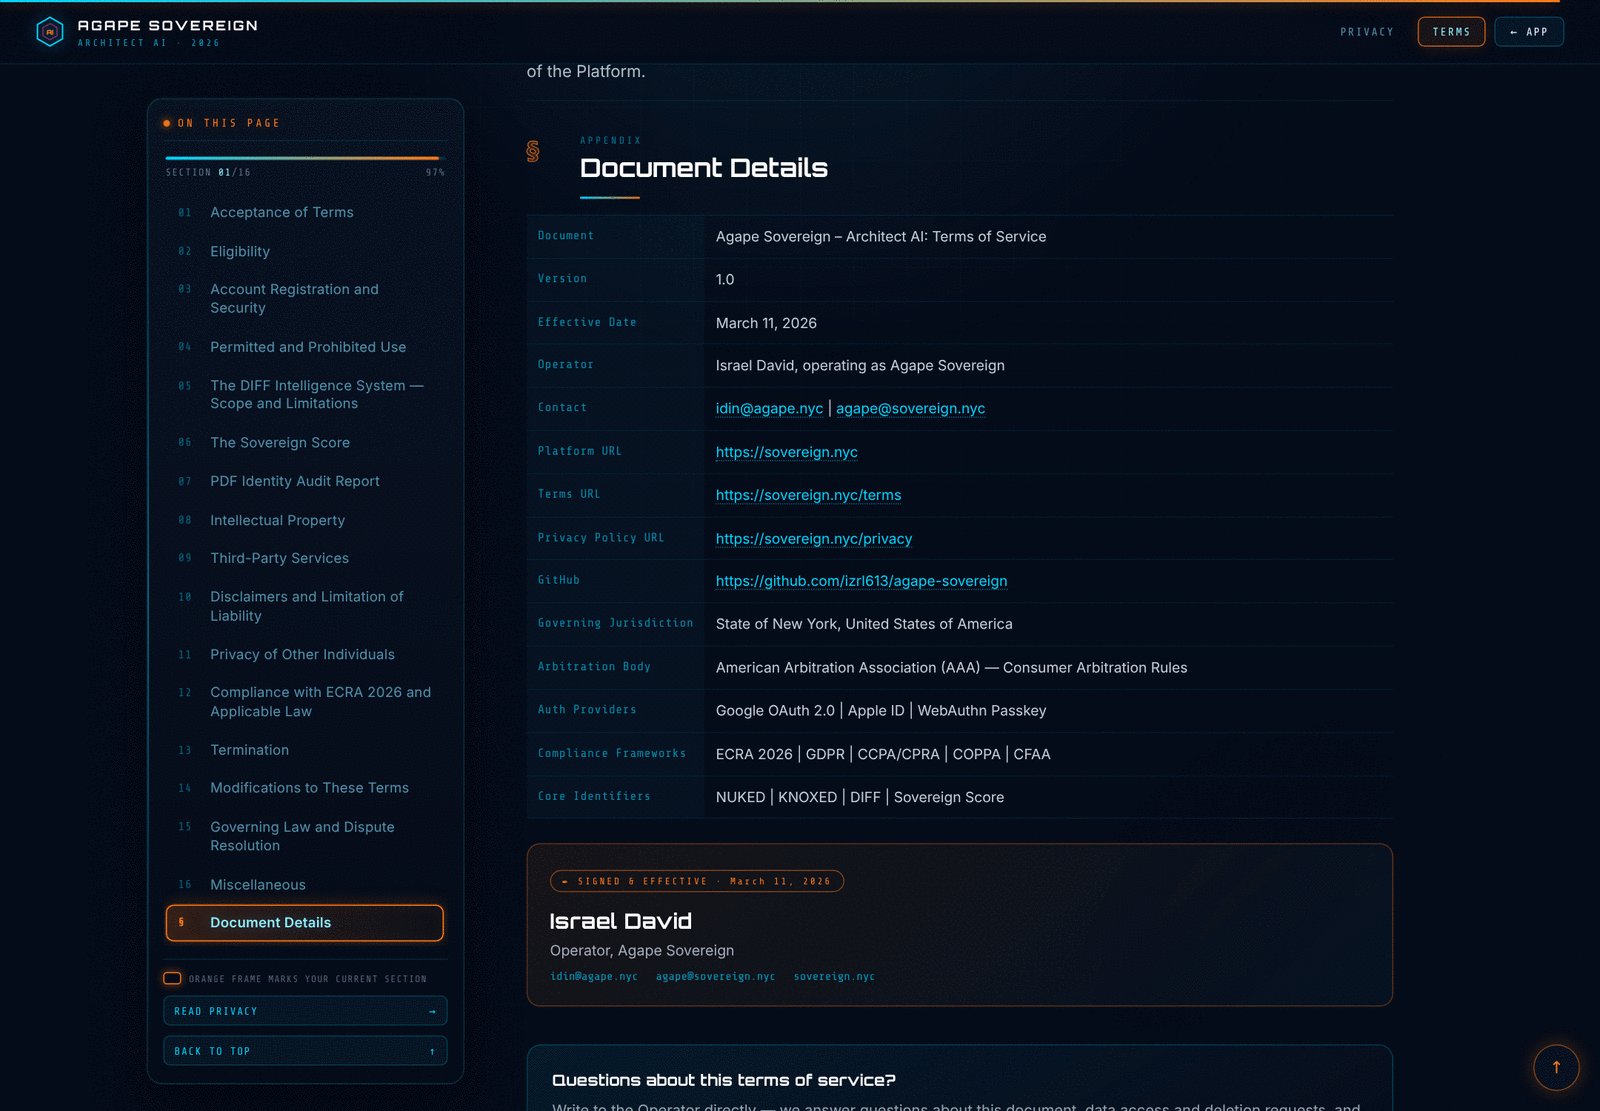
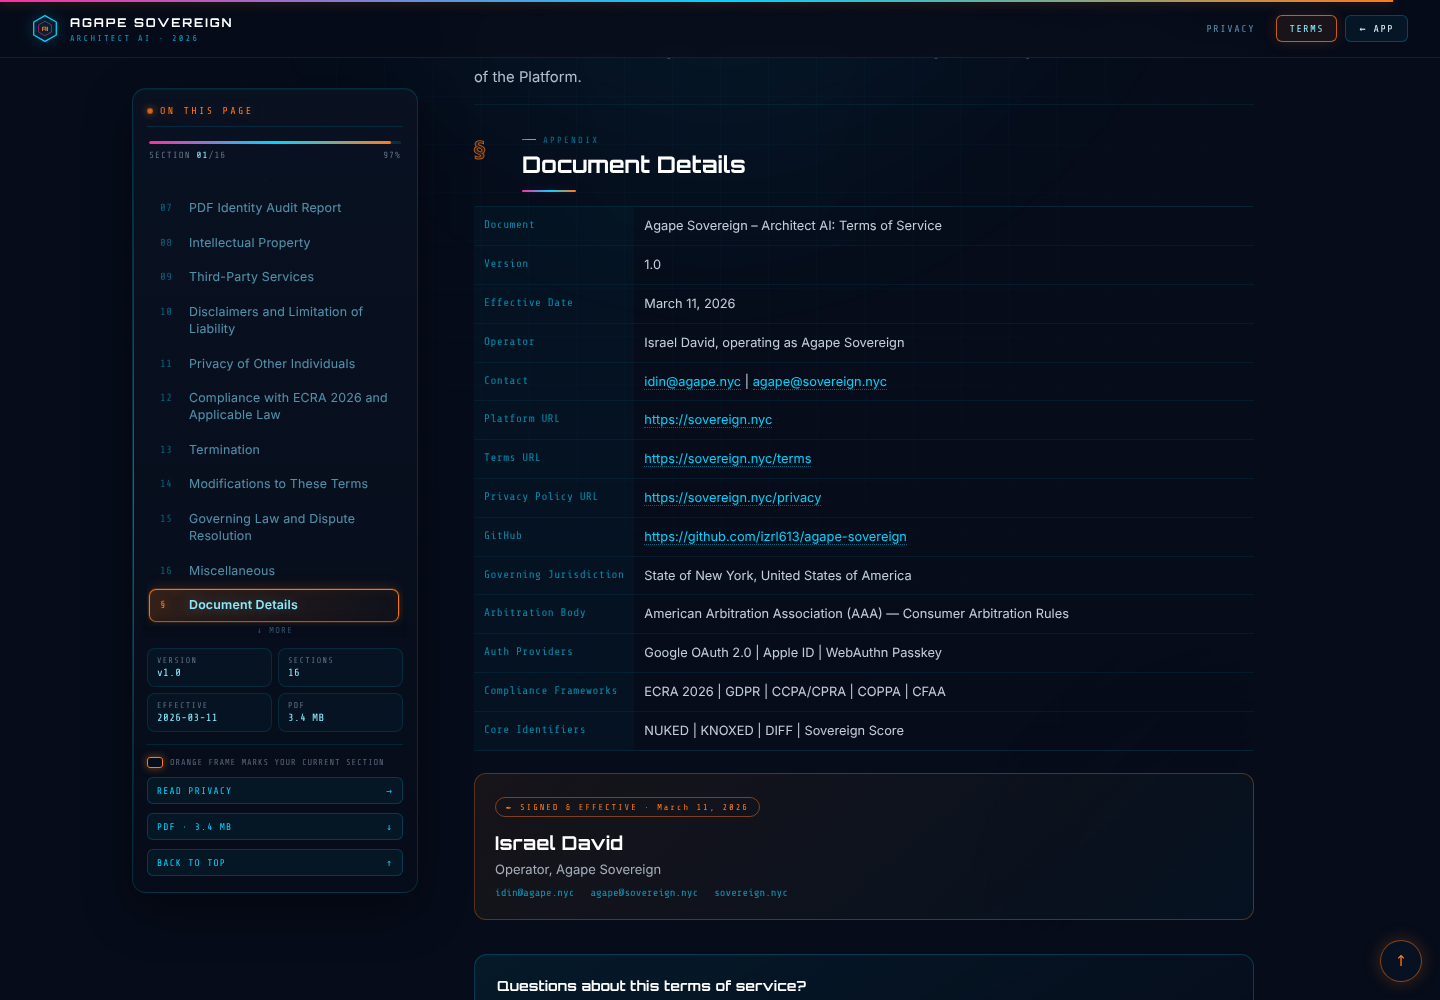
fix(legal): one page schema for /privacy and /terms
The two documents shared a component but not a shape: the left index was
content-sized, so /privacy's panel (12 entries) ended mid-screen while
/terms' (17) ran to the viewport edge, and only the Terms closed with a
signature block.

- cap the index at one fixed 448px viewport (.legal-toc) so the sidebar is
  the same box on both documents at every viewport height; long indexes
  scroll inside it and short ones fit exactly
- fade the row cut by the cap (top/bottom masks follow the scroll position)
  and add a '↓ N MORE' counter that overlays the last rows without changing
  the panel height
- add the shared document specimen strip (VERSION / SECTIONS / EFFECTIVE /
  PDF) so the sidebar keeps the same anatomy and never ends in dead space
- give the Privacy Policy the same SIGNED & EFFECTIVE block the Terms carry,
  so both close appendix → signature → contact card
- document the shared page anatomy in docs/LEGAL_PAGES.md, refresh the
  screenshot gallery (new privacy end-matter shot) and the changelog

Verified: aside/meta/foot boxes are pixel-identical on /privacy and /terms at
1440x1000, 1440x800, 1440x1400 and 1280x900; mobile bars identical (649px);
print output identical; no console errors. Only remaining difference is the
four boxed all-caps clauses that exist in the Terms PDF.

diff --git a/frontend/components/legal/LegalDocumentPage.tsx b/frontend/components/legal/LegalDocumentPage.tsx
@@ -24,6 +24,13 @@ type TocEntry = {
 
 const pad = (num: string) => (num.length === 1 ? `0${num}` : num);
 
+/** "March 11, 2026" → "2026-03-11"; falls back to the raw string. */
+const isoDate = (value: string) => {
+  const parsed = new Date(value);
+  if (Number.isNaN(parsed.getTime())) return value;
+  return parsed.toISOString().slice(0, 10);
+};
+
 const HexMark: React.FC = () => (
   <svg viewBox="0 0 32 36" width="26" height="29" aria-hidden="true">
     <polygon points="16,2 30,10 30,26 16,34 2,26 2,10" fill="none" stroke="#00D4FF" strokeWidth="1.6" />
@@ -106,8 +113,10 @@ export const LegalDocumentPage: React.FC<LegalDocumentPageProps> = ({ doc, other
   const [progress, setProgress] = useState(0);
   const [showTopBtn, setShowTopBtn] = useState(false);
   const [tocOpen, setTocOpen] = useState(false);
+  const [tocFade, setTocFade] = useState({ top: false, bottom: false, hidden: 0 });
 
-  const tocRef = useRef<HTMLDivElement | null>(null);
+  const tocRef = useRef<HTMLElement | null>(null);
+  const tocScrollRef = useRef<HTMLElement | null>(null);
   const itemRefs = useRef<Record<string, HTMLAnchorElement | null>>({});
 
   useLegalMeta(doc);
@@ -169,6 +178,51 @@ export const LegalDocumentPage: React.FC<LegalDocumentPageProps> = ({ doc, other
       if (frame) window.cancelAnimationFrame(frame);
     };
   }, [anchors]);
+
+  /* Flag an index that overflows its capped height, so the CSS can fade the
+     rows cut by the cap instead of clipping them mid-label. The fade is only
+     drawn on the side that actually has more entries. */
+  useEffect(() => {
+    const el = tocScrollRef.current;
+    if (!el) return;
+    let frame = 0;
+
+    const measure = () => {
+      frame = 0;
+      const overflowing = el.scrollHeight > el.clientHeight + 2;
+      const top = overflowing && el.scrollTop > 4;
+      const bottom = overflowing && el.scrollTop + el.clientHeight < el.scrollHeight - 4;
+
+      // How many entries are still below the fold — the "↓ 6 MORE" affordance.
+      const listBottom = el.getBoundingClientRect().bottom;
+      let hidden = 0;
+      if (bottom) {
+        el.querySelectorAll('.legal-toc-item').forEach((item) => {
+          if (item.getBoundingClientRect().top > listBottom - 10) hidden += 1;
+        });
+      }
+
+      setTocFade((prev) =>
+        prev.top === top && prev.bottom === bottom && prev.hidden === hidden ? prev : { top, bottom, hidden },
+      );
+    };
+
+    const onScroll = () => {
+      if (!frame) frame = window.requestAnimationFrame(measure);
+    };
+
+    measure();
+    const observer = new ResizeObserver(measure);
+    observer.observe(el);
+    el.addEventListener('scroll', onScroll, { passive: true });
+    window.addEventListener('resize', measure);
+    return () => {
+      observer.disconnect();
+      el.removeEventListener('scroll', onScroll);
+      window.removeEventListener('resize', measure);
+      if (frame) window.cancelAnimationFrame(frame);
+    };
+  }, []);
 
   /* Keep the orange box in view inside the sidebar without moving the page. */
   useEffect(() => {
@@ -298,7 +352,15 @@ export const LegalDocumentPage: React.FC<LegalDocumentPageProps> = ({ doc, other
             </div>
           </div>
 
-          <nav className="legal-toc" id="legal-toc" ref={tocRef} aria-label={`${doc.title} sections`}>
+          <nav
+            className={`legal-toc${tocFade.top ? ' is-fade-top' : ''}${tocFade.bottom ? ' is-fade-bottom' : ''}`}
+            id="legal-toc"
+            ref={(node) => {
+              tocRef.current = node;
+              tocScrollRef.current = node;
+            }}
+            aria-label={`${doc.title} sections`}
+          >
             {doc.sections.map((section) => {
               const isActiveSection = activeSectionId === section.id;
               const showSubs = Boolean(section.subsections?.length) && isActiveSection;
@@ -363,6 +425,31 @@ export const LegalDocumentPage: React.FC<LegalDocumentPageProps> = ({ doc, other
               <span className="legal-toc-label">Document Details</span>
             </a>
           </nav>
+
+          <div className={`legal-toc-more${tocFade.bottom ? ' is-visible' : ''}`} aria-hidden="true">
+            ↓ {tocFade.hidden || ''} MORE
+          </div>
+
+          {/* Same specimen strip on both documents, so the sidebar keeps an
+              identical anatomy whether the index has 12 entries or 17. */}
+          <div className="legal-toc-meta" aria-label="Document facts">
+            <div className="legal-toc-meta-cell">
+              <span>VERSION</span>
+              <b>v{doc.version}</b>
+            </div>
+            <div className="legal-toc-meta-cell">
+              <span>SECTIONS</span>
+              <b>{pad(String(doc.sections.length))}</b>
+            </div>
+            <div className="legal-toc-meta-cell">
+              <span>EFFECTIVE</span>
+              <b>{isoDate(doc.effectiveDate)}</b>
+            </div>
+            <div className="legal-toc-meta-cell">
+              <span>PDF</span>
+              <b>{formatBytes(doc.pdf.bytes)}</b>
+            </div>
+          </div>
 
           <div className="legal-toc-foot">
             <div className="legal-legend">

diff --git a/frontend/components/legal/legalStyles.ts b/frontend/components/legal/legalStyles.ts
@@ -190,6 +190,9 @@ export const LEGAL_CSS = `
     display: flex;
     flex-direction: column;
     gap: 12px;
+    /* The panel hugs its content but the index is capped, so /privacy (12
+       entries) and /terms (17) produce the same card instead of one short panel
+       and one stretched to the viewport. A longer index scrolls in place. */
     max-height: calc(100vh - 112px);
     padding: 16px 14px;
     border: 1px solid rgba(0, 212, 255, 0.16);
@@ -307,8 +310,12 @@ export const LEGAL_CSS = `
 
   .legal-toc {
     display: flex;
-    flex: 1 1 auto;
+    flex: 0 1 auto;
     min-height: 0;
+    /* One index viewport for both documents: /privacy's 12 rows fit exactly,
+       /terms' 17 rows scroll. Short windows shrink it via flex-shrink. */
+    height: 448px;
+    max-height: 448px;
     flex-direction: column;
     gap: 2px;
     overflow-y: auto;
@@ -317,6 +324,45 @@ export const LEGAL_CSS = `
     scrollbar-width: thin;
     scrollbar-color: rgba(0, 212, 255, 0.4) transparent;
   }
+  /* Fade the row cut by the cap, and the rows above the fold once scrolled. */
+  .legal-toc.is-fade-bottom {
+    mask-image: linear-gradient(180deg, #000 0, #000 calc(100% - 24px), transparent 100%);
+    -webkit-mask-image: linear-gradient(180deg, #000 0, #000 calc(100% - 24px), transparent 100%);
+  }
+  .legal-toc.is-fade-top.is-fade-bottom {
+    mask-image: linear-gradient(180deg, transparent 0, #000 22px, #000 calc(100% - 24px), transparent 100%);
+    -webkit-mask-image: linear-gradient(180deg, transparent 0, #000 22px, #000 calc(100% - 24px), transparent 100%);
+  }
+  .legal-toc.is-fade-top {
+    mask-image: linear-gradient(180deg, transparent 0, #000 22px);
+    -webkit-mask-image: linear-gradient(180deg, transparent 0, #000 22px);
+  }
+
+  /* Sticky counter for a capped index: the cut row is covered, the count says
+     how much is left, and it rides the bottom edge until the list ends. */
+  .legal-toc-more {
+    position: relative;
+    z-index: 2;
+    /* Overlaps the bottom of the index by exactly its own height, so it never
+       changes the panel height when it appears. */
+    height: 24px;
+    /* -24px pulls it over the index; -12px cancels the flex gap it would
+       otherwise add, so the panel height is unchanged on both documents. */
+    margin: -24px -4px -12px;
+    display: flex;
+    align-items: flex-end;
+    justify-content: center;
+    padding-bottom: 3px;
+    background: linear-gradient(180deg, rgba(6, 12, 26, 0) 0, rgba(6, 12, 26, 0.96) 55%, rgba(6, 12, 26, 1) 100%);
+    font-family: 'Share Tech Mono', monospace;
+    font-size: 8.6px;
+    letter-spacing: 0.16em;
+    color: var(--legal-blue-soft);
+    pointer-events: none;
+    opacity: 0;
+    transition: opacity 0.18s ease;
+  }
+  .legal-toc-more.is-visible { opacity: 1; }
   .legal-toc::-webkit-scrollbar { width: 3px; }
   .legal-toc::-webkit-scrollbar-thumb {
     background: rgba(0, 212, 255, 0.4);
@@ -397,6 +443,39 @@ export const LEGAL_CSS = `
   .legal-toc-sub .legal-toc-num {
     font-size: 9.6px;
     min-width: 24px;
+  }
+
+  /* Document facts — the same 2×2 specimen on /privacy and /terms. */
+  .legal-toc-meta {
+    display: grid;
+    grid-template-columns: 1fr 1fr;
+    gap: 6px;
+    margin-top: 10px;
+  }
+  .legal-toc-meta-cell {
+    display: flex;
+    flex-direction: column;
+    gap: 2px;
+    padding: 7px 9px;
+    border: 1px solid var(--legal-line);
+    border-radius: 8px;
+    background: rgba(0, 212, 255, 0.03);
+  }
+  .legal-toc-meta-cell span {
+    font-family: 'Share Tech Mono', monospace;
+    font-size: 8.2px;
+    letter-spacing: 0.16em;
+    color: rgba(180, 205, 230, 0.5);
+  }
+  .legal-toc-meta-cell b {
+    font-family: 'Share Tech Mono', monospace;
+    font-size: 10.5px;
+    font-weight: 400;
+    letter-spacing: 0.04em;
+    color: var(--legal-blue-bright);
+    white-space: nowrap;
+    overflow: hidden;
+    text-overflow: ellipsis;
   }
 
   .legal-toc-foot {
@@ -1028,6 +1107,8 @@ export const LEGAL_CSS = `
       position: sticky;
       top: 52px;
       z-index: 30;
+      height: auto;
+      min-height: 0;
       max-height: none;
       padding: 10px 12px 12px;
       box-shadow: inset 0 1px 0 rgba(255, 255, 255, 0.04), 0 12px 32px rgba(0, 0, 0, 0.5);
@@ -1039,9 +1120,12 @@ export const LEGAL_CSS = `
     .legal-meter { display: none; }
     .legal-aside[data-open='true'] .legal-meter { display: flex; }
     .legal-aside[data-open='true'] .legal-toc-current { display: none; }
-    .legal-toc { display: none; max-height: 44vh; }
+    .legal-toc { display: none; height: auto; max-height: 44vh; }
+    .legal-aside[data-open='true'] .legal-toc { height: auto; max-height: 44vh; }
     .legal-aside[data-open='true'] .legal-toc { display: flex; }
-    .legal-aside[data-open='false'] .legal-toc-foot { display: none; }
+    .legal-aside[data-open='false'] .legal-toc-foot,
+    .legal-aside[data-open='false'] .legal-toc-meta { display: none; }
+    .legal-toc-meta { grid-template-columns: 1fr 1fr 1fr 1fr; }
     .legal-aside[data-open='true'] .legal-toc-foot {
       flex-direction: row;
       flex-wrap: wrap;

diff --git a/docs/legal-pages-preview/index.html b/docs/legal-pages-preview/index.html
@@ -184,14 +184,19 @@
 
   <!-- 6 -->
   <section>
-    <div class="sec-head"><span class="sec-num">06</span><h2>Terms — end matter</h2></div>
+    <div class="sec-head"><span class="sec-num">06</span><h2>End matter — the shared closing schema</h2></div>
     <p class="cap">
-      The appendix anchor (<b>§</b> Document Details), the fact table, the signed-by block, and the contact card —
-      with the orange box parked on the appendix at <b>97%</b> read.
+      Both documents close on the identical sequence: appendix anchor (<b>§</b> Document Details) → fact table →
+      <b>SIGNED &amp; EFFECTIVE</b> signature block → contact card → footer. Same sidebar too: the index sits in a
+      fixed 448px viewport, so the fact strip and the three actions land at the same pixel on both pages.
     </p>
     <figure>
-      <img src="06-terms-end.png" alt="Terms document details and signature block" />
-      <figcaption><span>1440 × 1000 · /terms#sec-details · scrollY 10 757</span><span>active: § Document Details</span></figcaption>
+      <img src="06-terms-end.png" alt="Terms document details, signature block and contact card" />
+      <figcaption><span>1440 × 1000 · /terms#sec-details · scrollY 11 249</span><span>active: § Document Details · 16 sections</span></figcaption>
+    </figure>
+    <figure style="margin-top:20px">
+      <img src="06b-privacy-end.png" alt="Privacy document details, signature block and contact card" />
+      <figcaption><span>1440 × 1000 · /privacy#sec-details · scrollY 7 560</span><span>active: § Document Details · 11 sections</span></figcaption>
     </figure>
   </section>
 
@@ -224,7 +229,7 @@
     </p>
     <figure>
       <img src="09-tablet.png" alt="Tablet layout with compact table of contents bar" />
-      <figcaption><span>900 × 1100 · /terms#sec-4-2</span><span>active: 4.2 Prohibited Use</span></figcaption>
+      <figcaption><span>900 × 1100 · /terms#sec-4-2</span><span>active: 4.1 Permitted Use</span></figcaption>
     </figure>
   </section>
 

diff --git a/frontend/content/legal/privacyPolicy.ts b/frontend/content/legal/privacyPolicy.ts
@@ -495,4 +495,8 @@ export const privacyPolicy: LegalDocument = {
     { k: 'Google Policy Compliance', v: 'Google API Services User Data Policy — Limited Use' },
     { k: 'Compliance Frameworks', v: 'ECRA 2026 | GDPR | CCPA/CPRA | COPPA' },
   ],
+  // Same closing sequence as the Terms of Service: details → signature → contact.
+  signatureName: 'Israel David',
+  signatureRole: 'Operator, Agape Sovereign',
+  signatureContacts: ['agape@sovereign.nyc'],
 };

diff --git a/docs/LEGAL_PAGES.md b/docs/LEGAL_PAGES.md
@@ -53,6 +53,52 @@ frontend/
     └── TermsOfServicePage.tsx# /terms
 ```
 
+### Shared page anatomy (the schema both documents follow)
+
+`/privacy` and `/terms` are one component with two content files, and the anatomy below is
+identical on both — a reviewer should be able to put the pages side by side and see the same
+chrome, the same rhythm, and the same closing sequence. Only the copy and the number of
+sections differ.
+
+```
+header          brand lock-up · PRIVACY / TERMS switch · ← APP
+progress rail   2px tri-colour rail pinned to the top of the viewport
+sidebar         ON THIS PAGE eyebrow
+                SECTION 04 / 16 · 38 % meter
+                index (fixed 448px viewport — see below)
+                document specimen: VERSION · SECTIONS · EFFECTIVE · PDF
+                legend (orange frame = your position)
+                READ <other doc> · PDF · BACK TO TOP
+body            eyebrow → H1 → tagline → meta chips → hero actions → tri-colour rule
+                intro lead
+                §01..§NN  (number chip, SECTION NN eyebrow, H2, rule, then blocks)
+                subsections  (NN.N heading with a blue bar)
+                §  APPENDIX — Document Details fact table
+                SIGNED & EFFECTIVE signature block
+                contact card
+                footer  (both PDF chips · copyright + SHA-256 · PRIVACY / TERMS / CONTACT)
+```
+
+Rules that keep the pair aligned:
+
+- **The index viewport is fixed at 448px** (`.legal-toc`). `/privacy`'s 12 entries fit exactly;
+  `/terms`' 17 entries scroll inside the same box. Because the sidebar height is therefore not
+  content-driven, the specimen strip and the three footer actions land on the same pixel on both
+  pages, at every viewport height. On short windows the box shrinks via `flex-shrink` and scrolls.
+- **Overflow is faded, not clipped.** When the index overflows, the CSS masks the cut row on the
+  side that actually has more entries (`is-fade-top` / `is-fade-bottom`). A `↓ N MORE` counter
+  rides the bottom edge and reports how many entries are still below; it fades out at the last
+  entry. It is pulled over the index with a negative margin so appearing/disappearing can never
+  change the panel height.
+- **The document specimen strip** (version, section count, effective date, PDF weight) is the same
+  2×2 grid on both pages, so the sidebar never ends in dead space on the shorter document.
+- **The closing sequence is mandatory on both**: appendix table → signature block → contact card.
+  A document without a `signatureName` simply omits it — which is why the Privacy Policy carries
+  the same operator block as the Terms.
+- **Section anatomy never varies**: number chip + `SECTION NN` eyebrow + H2 + tri-colour underline,
+  followed by blocks; the `allcaps` block type renders as a boxed clause and is used only where the
+  signed PDF has such a clause (four times in the Terms, never in the Privacy Policy).
+
 ### Colour rules
 
 - **Neon blue** (`#00D4FF` family) is the only colour for navigation labels.

diff --git a/CHANGELOG.md b/CHANGELOG.md
@@ -23,6 +23,7 @@
 | 2026-10-26 | `fix` | `MODULE_CONFIGS` fallback in `ModuleInterface` (privacy-reclaim had no config and rendered "Module not found"), plus a `← Dashboard` control on module screens |
 | 2026-10-26 | `style` | Dashboard shell, module splash/entry, Architect AI and Diff Report aligned to the `#060C1A` brand palette; `theme.ts` gained the missing `magenta`/`orange`/`bg`/`bgCard`/`text`/`textMuted` tokens; emoji status glyphs replaced with font-safe symbols; preview captured in `docs/dashboard-preview/` |
 | 2026-10-26 | `feat` | Public Privacy Policy (`/privacy`) + Terms of Service (`/terms`) pages — unauthenticated, mirrored 1:1 from the signed PDFs, with a sticky neon-blue table of contents that wraps the reader's current clause in an orange position box |
+| 2026-10-26 | `fix` | `/privacy` and `/terms` now share one page schema: the left index sits in a fixed 448px viewport (was content-driven, so the two sidebars ended at different heights), cut rows fade with a directional mask plus a `↓ N MORE` counter, the sidebar gained the same VERSION / SECTIONS / EFFECTIVE / PDF specimen strip on both documents, and the Privacy Policy closes with the same SIGNED & EFFECTIVE block → contact card sequence as the Terms |
 | 2026-10-26 | `feat` | Shared legal document shell (`frontend/components/legal/*`) — scroll-spy nav with expandable subsections, reading-progress rail, mobile sticky TOC bar, print stylesheet, per-document meta/OG tags |
 | 2026-10-26 | `docs` | Add `docs/LEGAL_PAGES.md` — routes, content model, design spec, and copy-editing rules for the legal pages |
 | 2026-07-21 | `fix` | Resolve 10 Firebase deploy failure root causes (lint configs, apphosting, workspaces, deps, workflows) |
